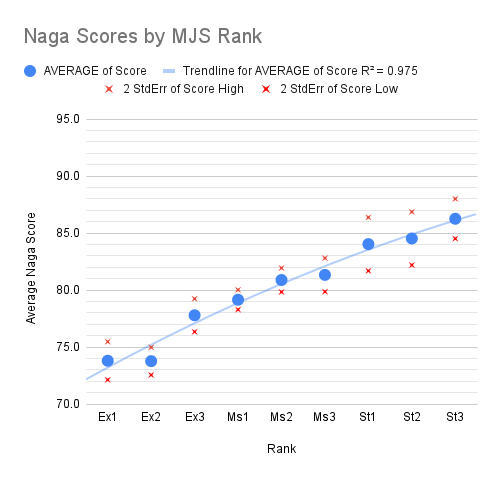
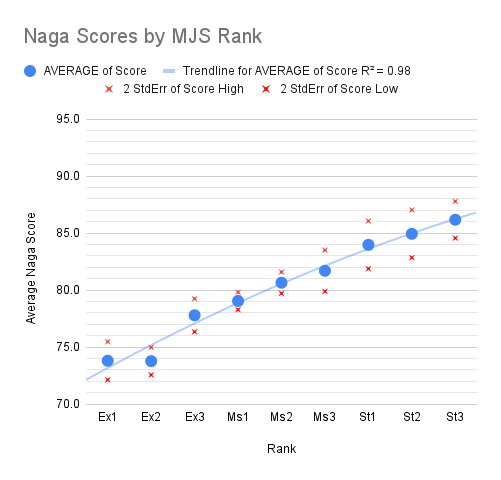
Update with more data

diff --git a/mahjong/naga_stats.md b/mahjong/naga_stats.md
@@ -4,17 +4,17 @@ To start with the conclusion, this chart shows each MJS rank, Tenhou dan rank, a
 
 <kbd><img src="media/Score_vs_MJS_and_Tenhou.png"/></kbd>
 
-Roughly MJS Master 3 = Tenhou 4d = Tenhou 1850R. And MJS Saint 3 = Tenhou 7d = Tenhou 2050R. 
+Roughly MJS Master 3 = Tenhou 4d = Tenhou 1850R. And MJS Saint 3 = Tenhou 6d = Tenhou 2000R. 
 
 Here are individual charts for MJS and Tenhou, starting with MJS. The Red Xs above and below each datapoint shows a +/- 2 Standard Error range. The blue line is a 2nd degree polynomial fit.
 
 <kbd><img src="media/Naga Scores by MJS Rank.png"/></kbd>
 
-Similar for Tenhou Dan (note the very large error range for 7d and 8d -- there were very few data points for these in the dataset)
+Similar for Tenhou Dan
 
 <kbd><img src="media/Naga Scores by Tenhou Dan.png"/></kbd>
 
-And Tenhou Ranks binned every 50 points. 1800 means the range \[1800-1850\). Again note the very large errors on the 2050+ ranges.
+And Tenhou Ranks binned every 50 points. 1800 means the range \[1800-1850\).
 
 <kbd><img src="media/Naga Scores by Tenhou Rate.png"/></kbd>
 
